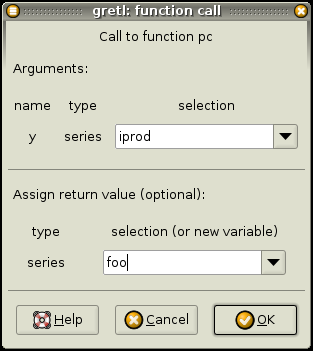
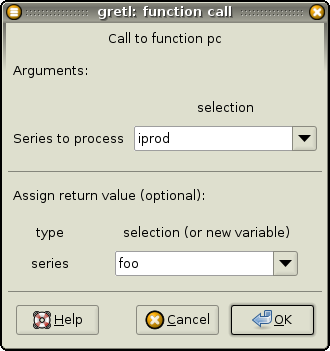
Add description string to the function package example

diff --git a/doc/tex/functions.tex b/doc/tex/functions.tex
@@ -523,7 +523,7 @@ list cubelist = make_cubes(xlist)
 print xlist cubelist --byobs
 labels
 \end{code}
-%
+%$
 
 Note that the \verb+return+ statement does \emph{not} cause the
 function to return (exit) at the point where it appears within the
@@ -594,11 +594,15 @@ There are several ways to load a function:
 For example, suppose you decide to package a function that returns the
 percentage change of a time series. Open a script file and type
 \begin{code}
-function pc(series y)
+function pc(series y "Series to process")
   series foo = diff(y)/y(-1)
   return series foo
 end function
 \end{code}
+In this case, we have appended a string to the function
+argument, as explained in section \ref{func-define}, so to make our
+interface more informative. This is not obligatory: if you omit the
+descriptive string, \app{gretl} will supply a predefined one.
 
 \begin{figure}[htbp]
   \centering
@@ -733,7 +737,11 @@ Go to ``File, Function files, On local machine''.  You will be shown a
 list of the installed packages, including the one you have just
 created. If you select it and click on ``Execute'' (or double-click on
 the name of the function package), a window similar to the one shown
-in figure \ref{fig:function_call} will appear.  Click ``Ok'' and the
+in figure \ref{fig:function_call} will appear.  Notice that the
+description string ``Series to process'', supplied with the function
+definition, appears to the left of the top series chooser.
+
+Click ``Ok'' and the
 series \texttt{foo} will be generated (see figure \ref{fig:iprod_pc}).
 You may have to go to ``Data, Refresh data'' in order to have your new
 variable show up in the main window variable list (or just press the
